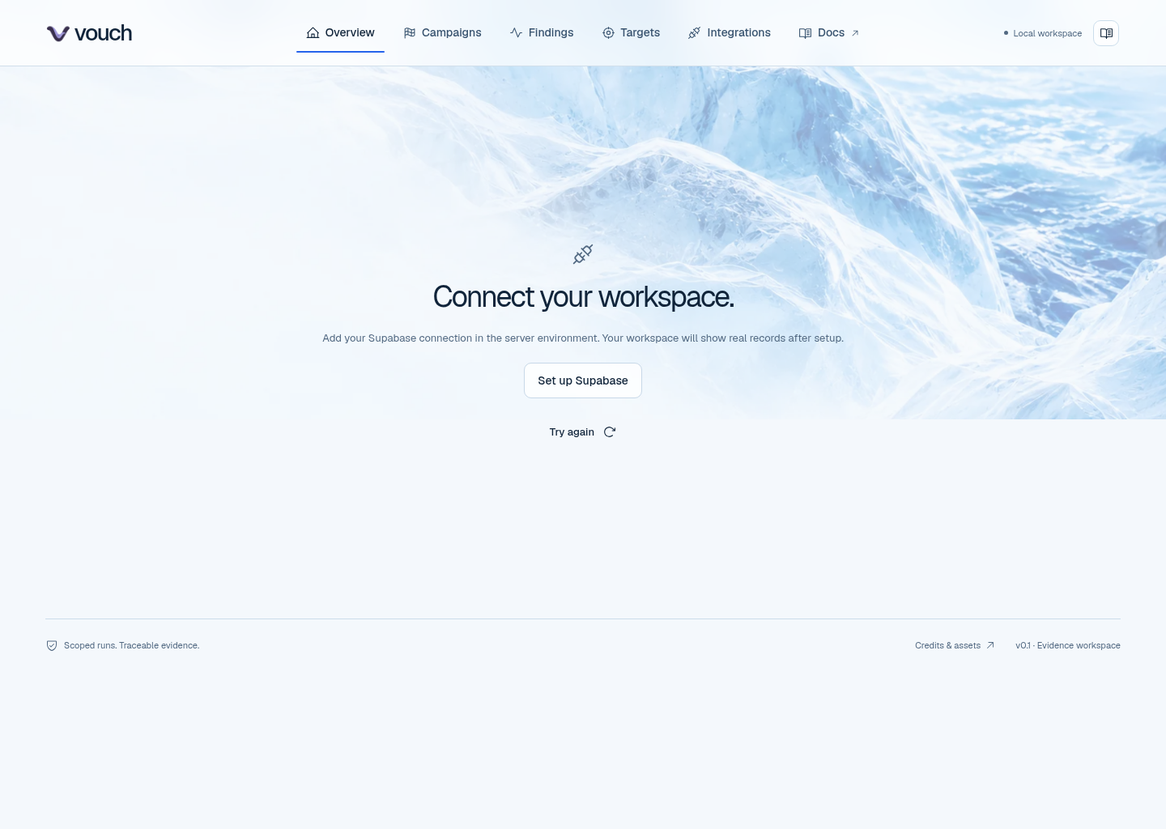
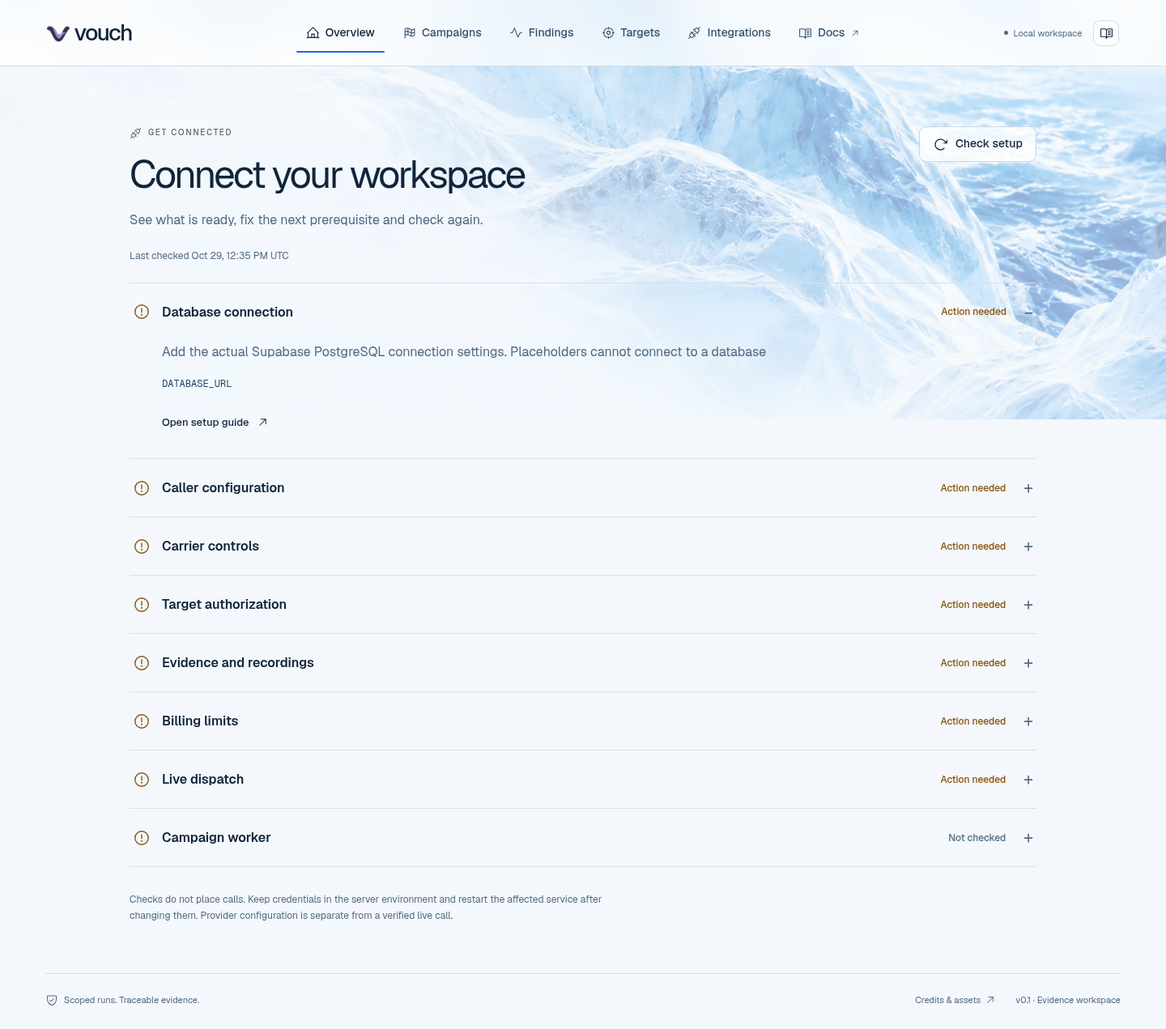
docs: record verified first-use and action workflows
Document actionable setup, target persistence, campaign review, confirmed Stop and cross-container worker health. Refresh the actual README capture and record current isolated checks and remaining hosted acceptance.

Verified 83 relative documentation links, 20 shell blocks, valid public test commands, credential exclusion and the unchanged original brief.

diff --git a/docs/project-status.md b/docs/project-status.md
@@ -4,7 +4,7 @@ Updated on October 29, 2026.
 
 The website now uses the selected cool-white and electric-blue direction with original ice-current background imagery. Retired mascot assets and simulated product flows have been removed. Supabase PostgreSQL is the default backend, with placeholder-only configuration until actual credentials are supplied.
 
-Overall completion is approximately 90 percent as a qualitative project estimate. The requested implementation and isolated checks are complete; hosted configuration, provider acceptance and operational recovery still need actual credentials. This estimate is not a test-coverage measure or production-readiness certification.
+Implementation and production acceptance are tracked separately. The current follow-up addresses concrete first-use and action-flow gaps rather than treating the finished visual design as a completed product. Hosted configuration, provider acceptance and operational recovery still need actual credentials.
 
 ## Real data boundary
 
@@ -24,6 +24,10 @@ The new visual system also fixes Docs focus treatment, removes crowded mascot ar
 
 ## Supabase and setup
 
+Integrations now exposes working, authenticated setup diagnostics instead of sharing the overview's blocked screen. The checklist distinguishes database configuration, schema, caller settings, carrier controls, target authorization, evidence storage, billing, dispatch and recent worker progress. It lists exact missing setting names without values and supports a fresh check after configuration changes. Worker health is persisted in PostgreSQL across containers and cannot become healthy from a failed tick or a local timestamp alone.
+
+The first-use workspace guides real target registration and returns to the saved record. Campaign scope and review are separate steps, editing requires renewed authorization, and final success opens the first run. Failed submissions keep their values and repeated submits are guarded. Stop requires confirmation with inline failure recovery. Findings can clear empty filters, and findings/evidence no longer depend on the overview request succeeding. See the [functional UX follow-up](reports/functional-ux.md).
+
 Versioned SQL lives in `apps/api/src/database/migrations/` and is copied into the native server build. The runner checks ownership/role privileges, serializes migration and verifies applied checksums. It supports separate runtime/migration credentials and verified TLS. Direct or session pooling is required because workers use session advisory locks.
 
 The private environment and committed examples contain no usable credentials. Hosted database credentials, caller/carrier configuration, recipient authorization, recording hosts and billing confirmations remain to be provided. Signing/encryption keys can be generated privately when preparing actual evidence capture.
@@ -32,20 +36,20 @@ The cloud install script was executed successfully from `/tmp`, with writable pa
 
 ## Verification completed
 
-| Check                       | Result                   | Scope                                                                                                              |
-| --------------------------- | ------------------------ | ------------------------------------------------------------------------------------------------------------------ |
-| Unit checks                 | 79 passed                | Evidence, scope, configuration, URL state, field messages and Supabase connection validation                       |
-| PostgreSQL/API regressions  | 113 passed               | Fresh/repeated/checksummed SQL, RLS, global search, pagination, validation, export/rerun guards, sessions and CSRF |
-| Browser regressions         | Passed                   | 71 browser-only records, navigation/history/modals, search, controls, stale errors and 320–2560px layouts          |
-| Public Docs                 | Passed                   | All seven routes, search states, clipboard, focus ring and separate-tab navigation                                 |
-| Accessibility               | 16 scans passed          | Desktop/mobile product test states and actual placeholder-only landing/workspace/quickstart pages                  |
-| Production build            | Passed                   | Strict TypeScript, Vite and native Node output including SQL files                                                 |
-| Production dependency audit | No known vulnerabilities | Installed production dependencies                                                                                  |
-| Compose configuration       | Passed                   | Placeholder configuration and Supabase-default service graph                                                       |
+| Check                       | Result                   | Scope                                                                                                                  |
+| --------------------------- | ------------------------ | ---------------------------------------------------------------------------------------------------------------------- |
+| Unit checks                 | 106 passed               | Existing domain checks plus campaign review, safe setup diagnostics, shared configuration validation and worker health |
+| PostgreSQL/API regressions  | 177 passed               | Original report/auth assertions plus actual browser target registration, persistence, setup and zero-job worker health |
+| Browser regressions         | Passed                   | 71 browser-only records, navigation/history/modals, search, controls, stale errors and 320–2560px layouts              |
+| Public Docs                 | Passed                   | All seven routes, search states, clipboard, focus ring and separate-tab navigation                                     |
+| Accessibility               | 19 scans passed          | Ten product screens, four actual setup screens and five review/Stop dialog states across desktop/mobile                |
+| Production build            | Passed                   | Strict TypeScript, Vite and native Node output including SQL files                                                     |
+| Production dependency audit | No known vulnerabilities | Installed production dependencies                                                                                      |
+| Compose configuration       | Passed                   | Placeholder configuration and Supabase-default service graph                                                           |
 
-The database regression created its own temporary PostgreSQL 17 container and guarded `_test` database, ran no worker, removed provider credentials and cleaned up its test resources. Retained development data was not reset. The current README screenshot was captured from the actual unconfigured application with no intercepted records.
+The database regression created its own temporary PostgreSQL 17 container and guarded `_test` database. Its actual browser entered and saved a target through the actual API, then verified the stored values and reload persistence before any report records were inserted. A worker ran only after asserting zero campaigns, runs and executions, with credentials removed and live calls disabled. It was stopped before report test data was inserted. The suite cleaned up only its temporary resources; retained development data was not reset. The README screenshot is from the actual unconfigured application with no intercepted records.
 
-The requested clean-code tools also ran against current source. Static complexity review prompted smaller database/message helpers, duplication analysis found no candidates at 0.8, and narrow URL/title mutation testing killed 25 meaningful mutants with five inspected equivalent survivors. These results do not establish an application-wide complexity or mutation score.
+The requested clean-code tools also ran against the changed workflow source. Static complexity results are informational without a fresh CRAP score, and duplication analysis found no candidates at 0.8. Narrow campaign-review mutation testing exposed a real decimal-precision gap. A failing regression reproduced it before strict input precision validation replaced epsilon rounding. Valid fractional currency remains accepted. These checks do not establish an application-wide complexity or mutation score.
 
 ## Credential-dependent acceptance
 

diff --git a/docs/reports/functional-ux.md b/docs/reports/functional-ux.md
@@ -1,0 +1,40 @@
+# Functional UX follow-up
+
+October 29, 2026.
+
+The user reported that the site looked finished but did not guide useful work. A fresh local capture reproduced a concrete problem. Overview and Integrations both rendered the same connection screen, with no diagnostic path. The campaign form also lacked a review step, which a new browser regression reproduced before the fix.
+
+## Journey and repairs
+
+| Step                  | Previous gap                                                                   | Current behavior                                                                                                         | Verification                                                                                                                          |
+| --------------------- | ------------------------------------------------------------------------------ | ------------------------------------------------------------------------------------------------------------------------ | ------------------------------------------------------------------------------------------------------------------------------------- |
+| 1 Open the workspace  | A single blocked screen with a generic retry                                   | Safe database/schema diagnostics and an expandable setup checklist                                                       | Actual placeholder-only application captured at desktop and phone widths                                                              |
+| 2 Register a target   | Empty overview led toward an unlaunchable campaign                             | First-use guidance opens registration and returns to the stored target                                                   | Actual browser entered a target through the actual API, then reloaded and compared database values                                    |
+| 3 Finish integrations | The Integrations page depended on overview data                                | Independent setup endpoint reports eight configuration/service checks, exact field names and next actions                | Actual API checks, disclosure contents and refresh matched the stored configuration                                                   |
+| 4 Review a campaign   | One long form with no separate review boundary                                 | Scope then frozen review, renewed authorization after edits, final launch only, duplicate guard and first-run navigation | Browser observed zero launch requests before authorization, one request during repeated submission, and preserved input after failure |
+| 5 Stop work           | Immediate action without confirmation                                          | Explicit confirmation, cancellation explanation, duplicate guard and inline retry                                        | Opening or cancelling the dialog sent no request; repeated confirmation sent one request                                              |
+| 6 Explore results     | Empty filters had no reset action and overview failures blocked separate pages | Clear filters resets URL state, while findings and evidence load independently                                           | Browser history/search checks and a deliberately unavailable overview                                                                 |
+
+## Service behavior
+
+`GET /api/setup` requires workspace access and never returns credential values, connection URLs, phone allowlists or raw driver messages. It distinguishes missing settings, invalid connections, rejected credentials, missing migration/schema access, network failures and bounded timeouts. Provider configuration is checked locally without contacting the provider. Only an owner can explicitly run the separate read-only caller check.
+
+Migration `006_service_heartbeats.sql` adds shared worker liveness without business seeds. A successful database tick writes a healthy per-instance observation. A failed tick or graceful shutdown marks that instance unavailable. API and worker can run in separate containers. Stale or failed observations cannot become healthy from a local timestamp alone.
+
+## Evidence
+
+- 106 unit tests passed, including campaign review, safe diagnostics and heartbeat behavior.
+- 177 isolated PostgreSQL/API assertions passed. This includes 54 first-use browser/API checks, eight real zero-job worker checks and the previous report/authentication regressions.
+- Both browser suites passed. The workflow suite covers review, authorization, duplicate submission, failure recovery, launch navigation, Stop confirmation, changing prerequisites, independent evidence, setup refresh and filter reset.
+- Desktop and phone captures were inspected from the actual unconfigured application and from the actual isolated target-registration journey. Browser-only campaign/Stop cases use intercepted records and do not establish provider behavior.
+- Nineteen bounded accessibility scans passed across product screens, actual setup screens and the new review/Stop dialogs, including the review error state.
+
+Pinned Crapper and Dryer tools reviewed the changed workflow source. Static complexity has no fresh CRAP measurement; duplication analysis found no candidates at 0.8. Narrow review-helper mutation checks found a real precision gap where a tiny amount could be reviewed as zero cents despite the stated two-decimal rule. A failing regression reproduced it, then strict decimal input validation fixed it while preserving legitimate fractional currency. This is focused quality evidence, not a whole-repository certification.
+
+Current audit captures are under ignored `artifacts/ux-followup/`, `artifacts/functional-journey/` and `artifacts/verification/`. The pre-fix review failure is retained there. Captures are not seeded into the website. A valid placeholder-only setup screenshot is deliberately included in the README.
+
+## Limits
+
+The integration runner created its own random temporary PostgreSQL container and test database. It verified zero campaigns, runs and executions before starting the worker, stripped provider credentials and kept live calling disabled. That worker was stopped before report records were inserted. Cleanup removed only temporary resources. Retained data was not reset.
+
+Hosted Supabase access, actual calls, signed customer delivery, carrier cancellation, finalized billing and hosted backup/recovery still require credentials and operator acceptance. Isolated tests do not establish these account capabilities or full accessibility compliance. Missing observations remain unavailable or unknown.

diff --git a/docs/history/action-log.md b/docs/history/action-log.md
@@ -94,3 +94,12 @@ Publication, live calling and fresh-task restoration are separate from local val
 77. Ran pinned Crapper, Dryer and Mutator tools in isolated temporary tooling. Static complexity review covered 31 changed application modules without claiming an unmeasured CRAP score. Split database connection checks and field-message formatting into smaller helpers and removed an unreachable certificate-query branch. Dryer found no duplicate candidates at 0.8. Added four meaningful URL/title tests, bringing the unit suite to 79 passing checks. Narrow mutation testing killed 25 meaningful mutants; five equivalent survivors were inspected and a coverage-reader omission was checked separately in a baseline-tested copy.
 78. Extended Docker-context exclusions for package caches, key files and Supabase CLI state. Clarified custom CA mounts and optional local-container TLS requirements without weakening certificate verification. Rebuilt production output and passed all 113 isolated PostgreSQL/API assertions after the connection-helper refactor. Source, database credentials and runtime data remain separate; no hosted database, provider or public deployment was changed.
 79. Saved the reviewed source as 771228e and prepared the accompanying documentation as an ordered commit. Final source includes no credentials, generated test records, retained runtime data or source maps. The current status gives an approximate 90 percent project estimate and names the remaining credential-dependent acceptance work rather than claiming production completion.
+80. Captured a fresh UX audit of the actual local workspace and Integrations page. Both rendered the same blocked connection screen. A new browser regression also reproduced the missing campaign-review step before implementation. Used that evidence to prioritize working first-use and action journeys instead of another visual redesign.
+81. Added authenticated setup diagnostics that distinguish missing configuration, invalid connections, pending schema/access, rejected credentials, reachability and timeouts without returning credential values or raw driver messages. Reused the live readiness gate and shared placeholder/allowlist validation. Integrations now loads independently and provides exact setting names, copyable commands, guides and fresh checks.
+82. Added migration 006 for per-instance PostgreSQL worker health without business seeds. Healthy state follows a successful database tick, while failed ticks and graceful shutdown are unavailable. The API can inspect shared health across containers, and each worker health command checks its own identity against the database instead of trusting a timestamp alone.
+83. Connected first-use guidance to actual target registration and navigation to the saved record. Split campaign scope from frozen review, required renewed authorization after editing and returned initialRunId for immediate run navigation. Guarded duplicate submits, retained failed input and prevented late save callbacks from navigating an unmounted or changed workspace. Added confirmed Stop with inline failure recovery and independent findings/evidence loading. Empty findings can reset filters and URL state.
+84. Passed 177 isolated PostgreSQL/API assertions, including 54 actual first-use browser/API checks, eight real zero-job worker checks and the original report/authentication assertions. Verified zero campaigns, runs and executions before starting the test worker, stripped provider credentials, disabled live dispatch and stopped the worker before report data was inserted. The actual browser saved a target, reloaded it and matched its stored values. Temporary services were cleaned up and retained data remained untouched.
+85. Passed the expanded browser regressions for review, authorization, failure recovery, duplicate submission, launch navigation, confirmed Stop, changing prerequisites, independent evidence, setup refresh and filter reset. Inspected current actual setup captures on desktop/mobile and retained five additional dialog accessibility scans. All nineteen current bounded accessibility scans passed. Physical-device, screen-reader and actual provider acceptance remain separate.
+86. Updated public Docs, README, agent guidance, Supabase/deployment runbooks and the functional UX report. Removed an obsolete public test command, registered the workflow suite under test:browser and replaced the README capture with the actual setup checklist. Rebuilt the production app and refreshed the local API process so the running preview uses the new diagnostics endpoint. Hosted Supabase and provider credentials remain placeholders; no remote migration or call was performed.
+87. Narrow mutation checks exposed a real budget-input precision gap. Reproduced tiny decimal amounts being reviewed as zero cents with a failing test, then replaced epsilon tolerance with strict decimal syntax while preserving valid fractional amounts and existing numeric/range guards. The final unit suite passed 106 checks. Fresh same-helper mutation executed 46 sites, killing 42 with four individually reviewed equivalent survivors and no uncovered sites. Static Crapper output remains informational without a CRAP score, and Dryer found no duplicate candidates at 0.8. Adjusted the mobile Stop dialog padding after inspecting its actual capture.
+88. Saved the verified source as 26a9ff1. The final production browser command passed both report and workflow suites, including visible rejection of tiny/scientific budgets and all five regenerated dialog accessibility checks. Seven compiled SQL files match source, source scans found no credential patterns, the private environment remains mode 0600 with empty credential fields and the original brief is unchanged. Documentation records actual acceptance boundaries instead of carrying forward a numerical completion claim.

diff --git a/README.md b/README.md
@@ -40,6 +40,8 @@ pnpm dev
 
 The landing page is `/`, the workspace is `/app` and the seven public guides start at `/docs`. Local development uses Vite port 5173 and API port 4000 on loopback. The app can render its honest setup state before credentials are supplied.
 
+Integrations opens a working setup checklist with safe server configuration checks, database/schema diagnostics and the worker's shared heartbeat. An empty connected workspace guides target registration before campaign setup. Saving a target opens its stored record in Targets. Campaigns have separate scope and review steps, and only the final authorized launch sends the request and opens the first run. Failed submissions preserve input, Stop requires confirmation, and filtered empty findings can reset the view.
+
 `scripts/cloud-install.sh` resolves its checkout from its own file path and can be invoked from any working directory. It preserves an existing private environment, installs dependencies and builds. It applies migrations only when a database connection is configured. It does not start Docker, populate provider keys or seed demo records.
 
 ## Configure Supabase
@@ -138,9 +140,11 @@ docker pull postgres:17-alpine
 pnpm test:integration
 # Uses actual built UI with intercepted records only inside the test process
 pnpm test:browser
+# Run just the campaign, setup and action workflow checks
+pnpm test:browser:workflow
 ```
 
-The API regression uses its own randomly named temporary PostgreSQL container and `_test` database. It never resets retained development or customer data, starts no worker and strips provider credentials. The browser regression uses test-only intercepted responses, never bundled demo data or database seeds. These fixtures are test inputs, not records displayed by the published application.
+The API regression uses its own randomly named temporary PostgreSQL container and `_test` database. It verifies a real user-entered target through the browser and runs a zero-job worker only before inserting report test records. It strips provider credentials, disables live calling and never resets retained development or customer data. Browser-only regressions use test-only intercepted responses, never bundled demo data or production database seeds. Test records are not displayed by the published application.
 
 Supabase connectivity, actual phone calls, carrier behavior, billing and hosted recovery cannot be certified before credentials are available. The [current status](docs/project-status.md) records the checks actually completed and their limits.
 

diff --git a/docs/operations/supabase.md b/docs/operations/supabase.md
@@ -82,14 +82,15 @@ The migration entry point uses `DATABASE_MIGRATION_URL` when set, otherwise `DAT
 
 SQL lives under `apps/api/src/database/migrations`.
 
-| File               | Responsibility                                                                     |
-| ------------------ | ---------------------------------------------------------------------------------- |
-| `000_ledger.sql`   | Migration history with immutable SHA-256 digests                                   |
-| `001_base.sql`     | Targets, campaigns, runs, normalized events and reviews                            |
-| `002_live.sql`     | Provider execution state, reservations and caller cleanup                          |
-| `003_evidence.sql` | Signed evidence streams, receipts, privacy markers and encrypted-artifact metadata |
-| `004_auth.sql`     | Users, sessions, workspaces, restricted role, row-level policies and access grants |
-| `005_indexes.sql`  | Workspace history and run/review lookup indexes                                    |
+| File                         | Responsibility                                                                     |
+| ---------------------------- | ---------------------------------------------------------------------------------- |
+| `000_ledger.sql`             | Migration history with immutable SHA-256 digests                                   |
+| `001_base.sql`               | Targets, campaigns, runs, normalized events and reviews                            |
+| `002_live.sql`               | Provider execution state, reservations and caller cleanup                          |
+| `003_evidence.sql`           | Signed evidence streams, receipts, privacy markers and encrypted-artifact metadata |
+| `004_auth.sql`               | Users, sessions, workspaces, restricted role, row-level policies and access grants |
+| `005_indexes.sql`            | Workspace history and run/review lookup indexes                                    |
+| `006_service_heartbeats.sql` | Shared per-instance worker liveness with restricted writes and no seed records     |
 
 The runner verifies the name and digest of every applied migration before applying newer versions. SQL line endings are normalized to LF before SHA-256 hashing so a Windows checkout does not invalidate an unchanged migration. A changed historical file, missing source version or gap in the recorded history stops migration. Restore the exact original file and add a new numbered migration when schema behavior needs to change.
 

diff --git a/AGENTS.md b/AGENTS.md
@@ -25,6 +25,8 @@ The product is real-data-only, with a gated Twilio-backed Bolna PSTN workflow, S
 - `apps/api/src/auth/service.ts` and `apps/api/src/database/client.ts` own sessions, CSRF, workspace context and restricted-role RLS.
 - `apps/api/src/evidence/ingestion.ts` and `apps/api/src/evidence/artifacts.ts` own signed ingestion, encrypted audio, provenance-preserving privacy and artifact recovery.
 - `apps/api/src/operations/retention.ts` and `apps/api/src/operations/health.ts` own bounded maintenance and safe operational signals.
+- `apps/api/src/operations/setup.ts` owns safe, authenticated setup diagnostics. Reuse the live readiness gate and never return credential values or raw driver errors.
+- `apps/web/src/features/workspace/WorkspaceSetup.tsx` owns the setup checklist and first-run guidance. Campaign scope/review and confirmed Stop live under `features/campaigns/`.
 - `apps/api/src/http/public-site.ts` controls public HTTP pages and assets.
 - `apps/api/src/migrate.ts` applies checksummed versioned SQL from `database/migrations/`. Never modify applied migration SQL; add a new version.
 - `apps/api/src/findings/list.ts` owns global, tenant-scoped findings queries.
@@ -68,6 +70,8 @@ The cloud-specific install command is `bash scripts/cloud-install.sh`. Read [clo
 - Isolated caller deletion may erase remote execution history. Never delete before required media/transcript capture or explicit privacy disposal, and preserve unresolved cleanup through retention.
 - Backend and provider signing keys are distinct. Only signed backend facts satisfy policy; completion requires contiguous delivery, and privacy tombstones must survive retries.
 - Keep runtime, target transport, optional speech components, evidence connectors and evaluation separate. Do not invent provider capabilities or endpoints.
+- A campaign review sends no request. Launch must use the reviewed values and require fresh authorization after editing. Stop requires confirmation. Preserve failed form input and guard duplicate submissions.
+- Worker health must come from recent successful database ticks stored in PostgreSQL. API and worker can run in separate containers; a local timestamp alone does not establish cross-service health.
 
 ## Secrets and public access
 
@@ -93,6 +97,7 @@ pnpm test
 pnpm test:integration
 # Requires a web build and Chromium, with no API/worker process needed
 pnpm test:browser
+pnpm test:browser:workflow
 pnpm test:browser:design
 pnpm audit
 ```

diff --git a/docs/README.md b/docs/README.md
@@ -26,9 +26,12 @@ Start with [project status](project-status.md) for the implemented real PSTN wor
 
 ## Reports and history
 
+- [Functional UX follow-up](reports/functional-ux.md) records the guided first-use flow, real target persistence, campaign review, Stop confirmation and cross-container worker diagnostics.
+
 - [Current desktop report follow-up](reports/desktop-followup.md) records the reported fixes, selected design and isolated verification results.
 
-- [Repository audit](reports/repository-audit.md), [performance audit](reports/performance-audit.md) and [design verification](reports/design-qa.md) retain the historical fixture baseline. Their results are not acceptance of the later live/authentication expansion.
+- [Repository audit](reports/repository-audit.md) and [performance audit](reports/performance-audit.md) retain the historical fixture baseline. Their results are not acceptance of the later live/authentication expansion.
+- [Design verification](reports/design-qa.md) records the selected visual direction and its bounded local checks. The functional UX follow-up above records the later journey repairs.
 - [Design notes](reports/design-redesign.md) explain the current visual system and preserve creator/license references.
 - [Action history](history/action-log.md) records changes and their validation. Paths in older entries describe the layout at that time.
 - [Original brief](reference/product-brief.md) preserves the supplied text without edits.

diff --git a/docs/operations/deployment.md b/docs/operations/deployment.md
@@ -85,7 +85,7 @@ For a native Node deployment, build the frontend and run `node scripts/build-ser
 
 ## Readiness and monitoring
 
-The API container checks the HTTP health route and PostgreSQL readiness. The worker container checks a heartbeat emitted after its processing loop. A missing heartbeat or one older than two minutes is unhealthy. A worker process merely existing is not treated as proof that it is making progress.
+The API container checks the HTTP health route and PostgreSQL readiness. Each worker records a per-instance heartbeat in PostgreSQL after a successful database tick and mirrors its identity into its local health file. The health command checks that instance against the database. Missing, failed or older-than-two-minute observations are unhealthy. Graceful shutdown marks the worker unavailable immediately. Integrations can therefore report worker health across containers without treating a local timestamp or process as proof of progress. These checks do not establish provider connectivity or completed calls.
 
 Monitor container health, migration failure, queue age, ambiguous provider dispatches, pending budget reservations, authentication failures, artifact disk usage and backup age. Structured operational logs contain event names and bounded operational metadata. Never log environment settings, raw provider responses, recordings or passwords.
 
